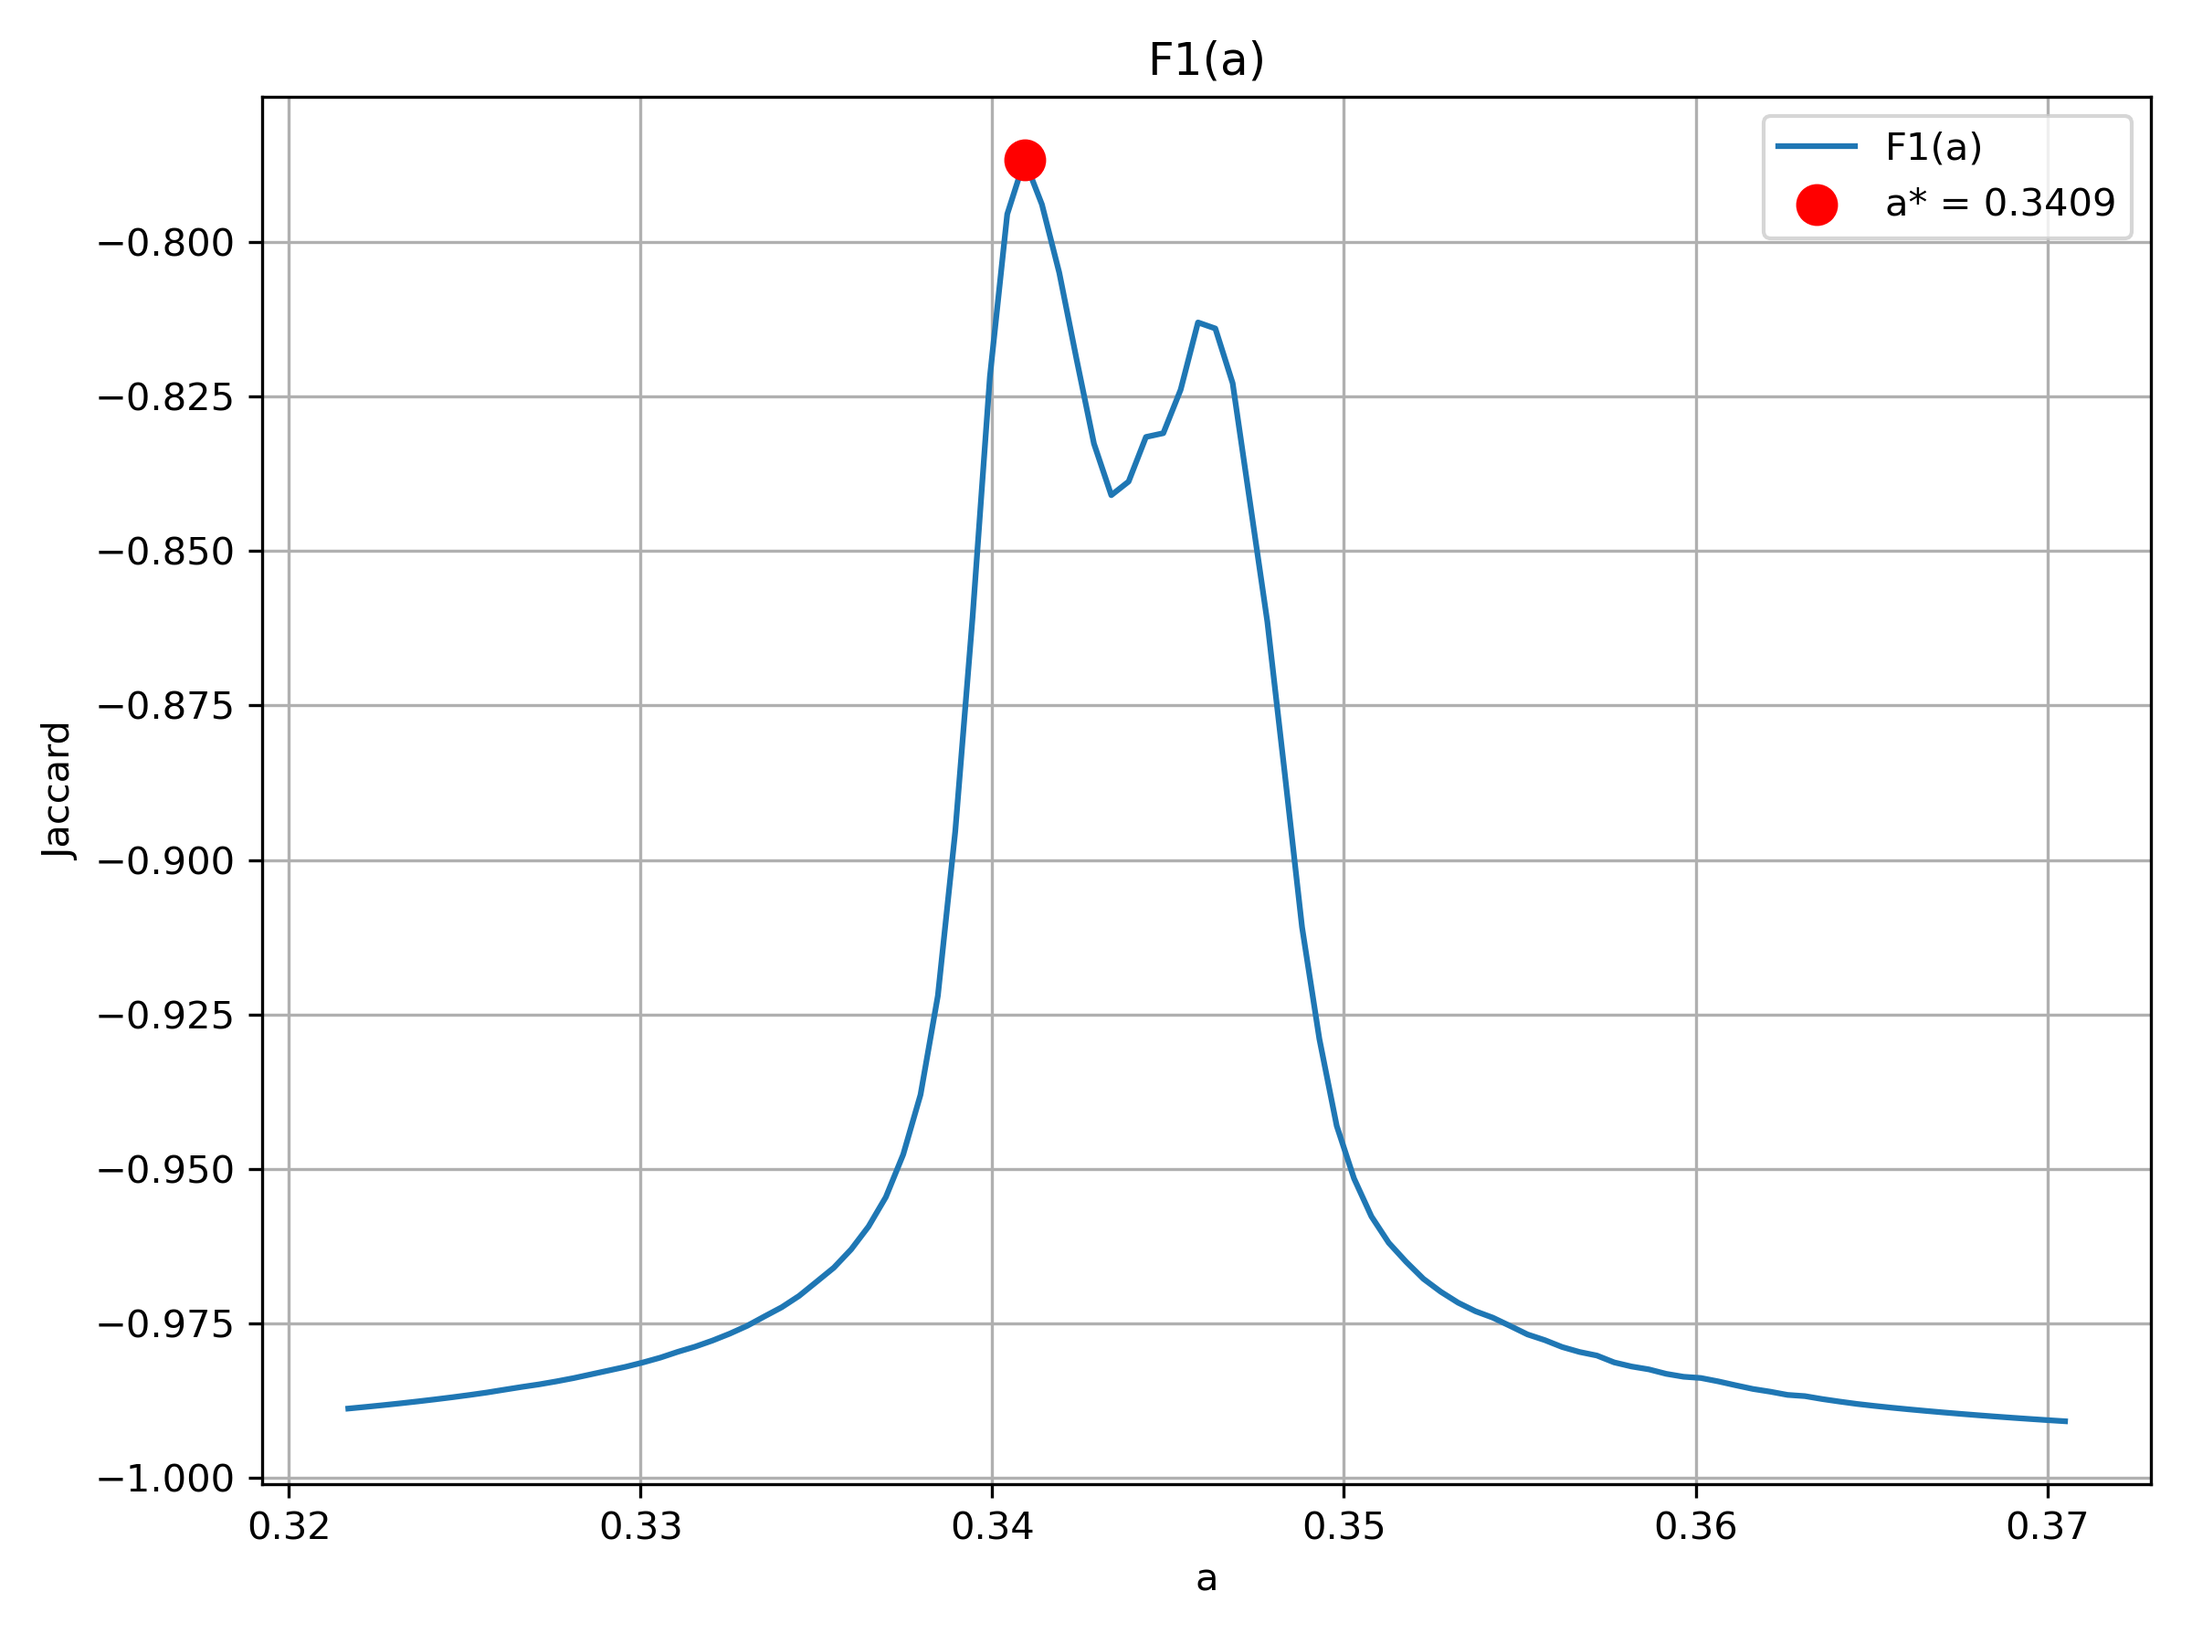
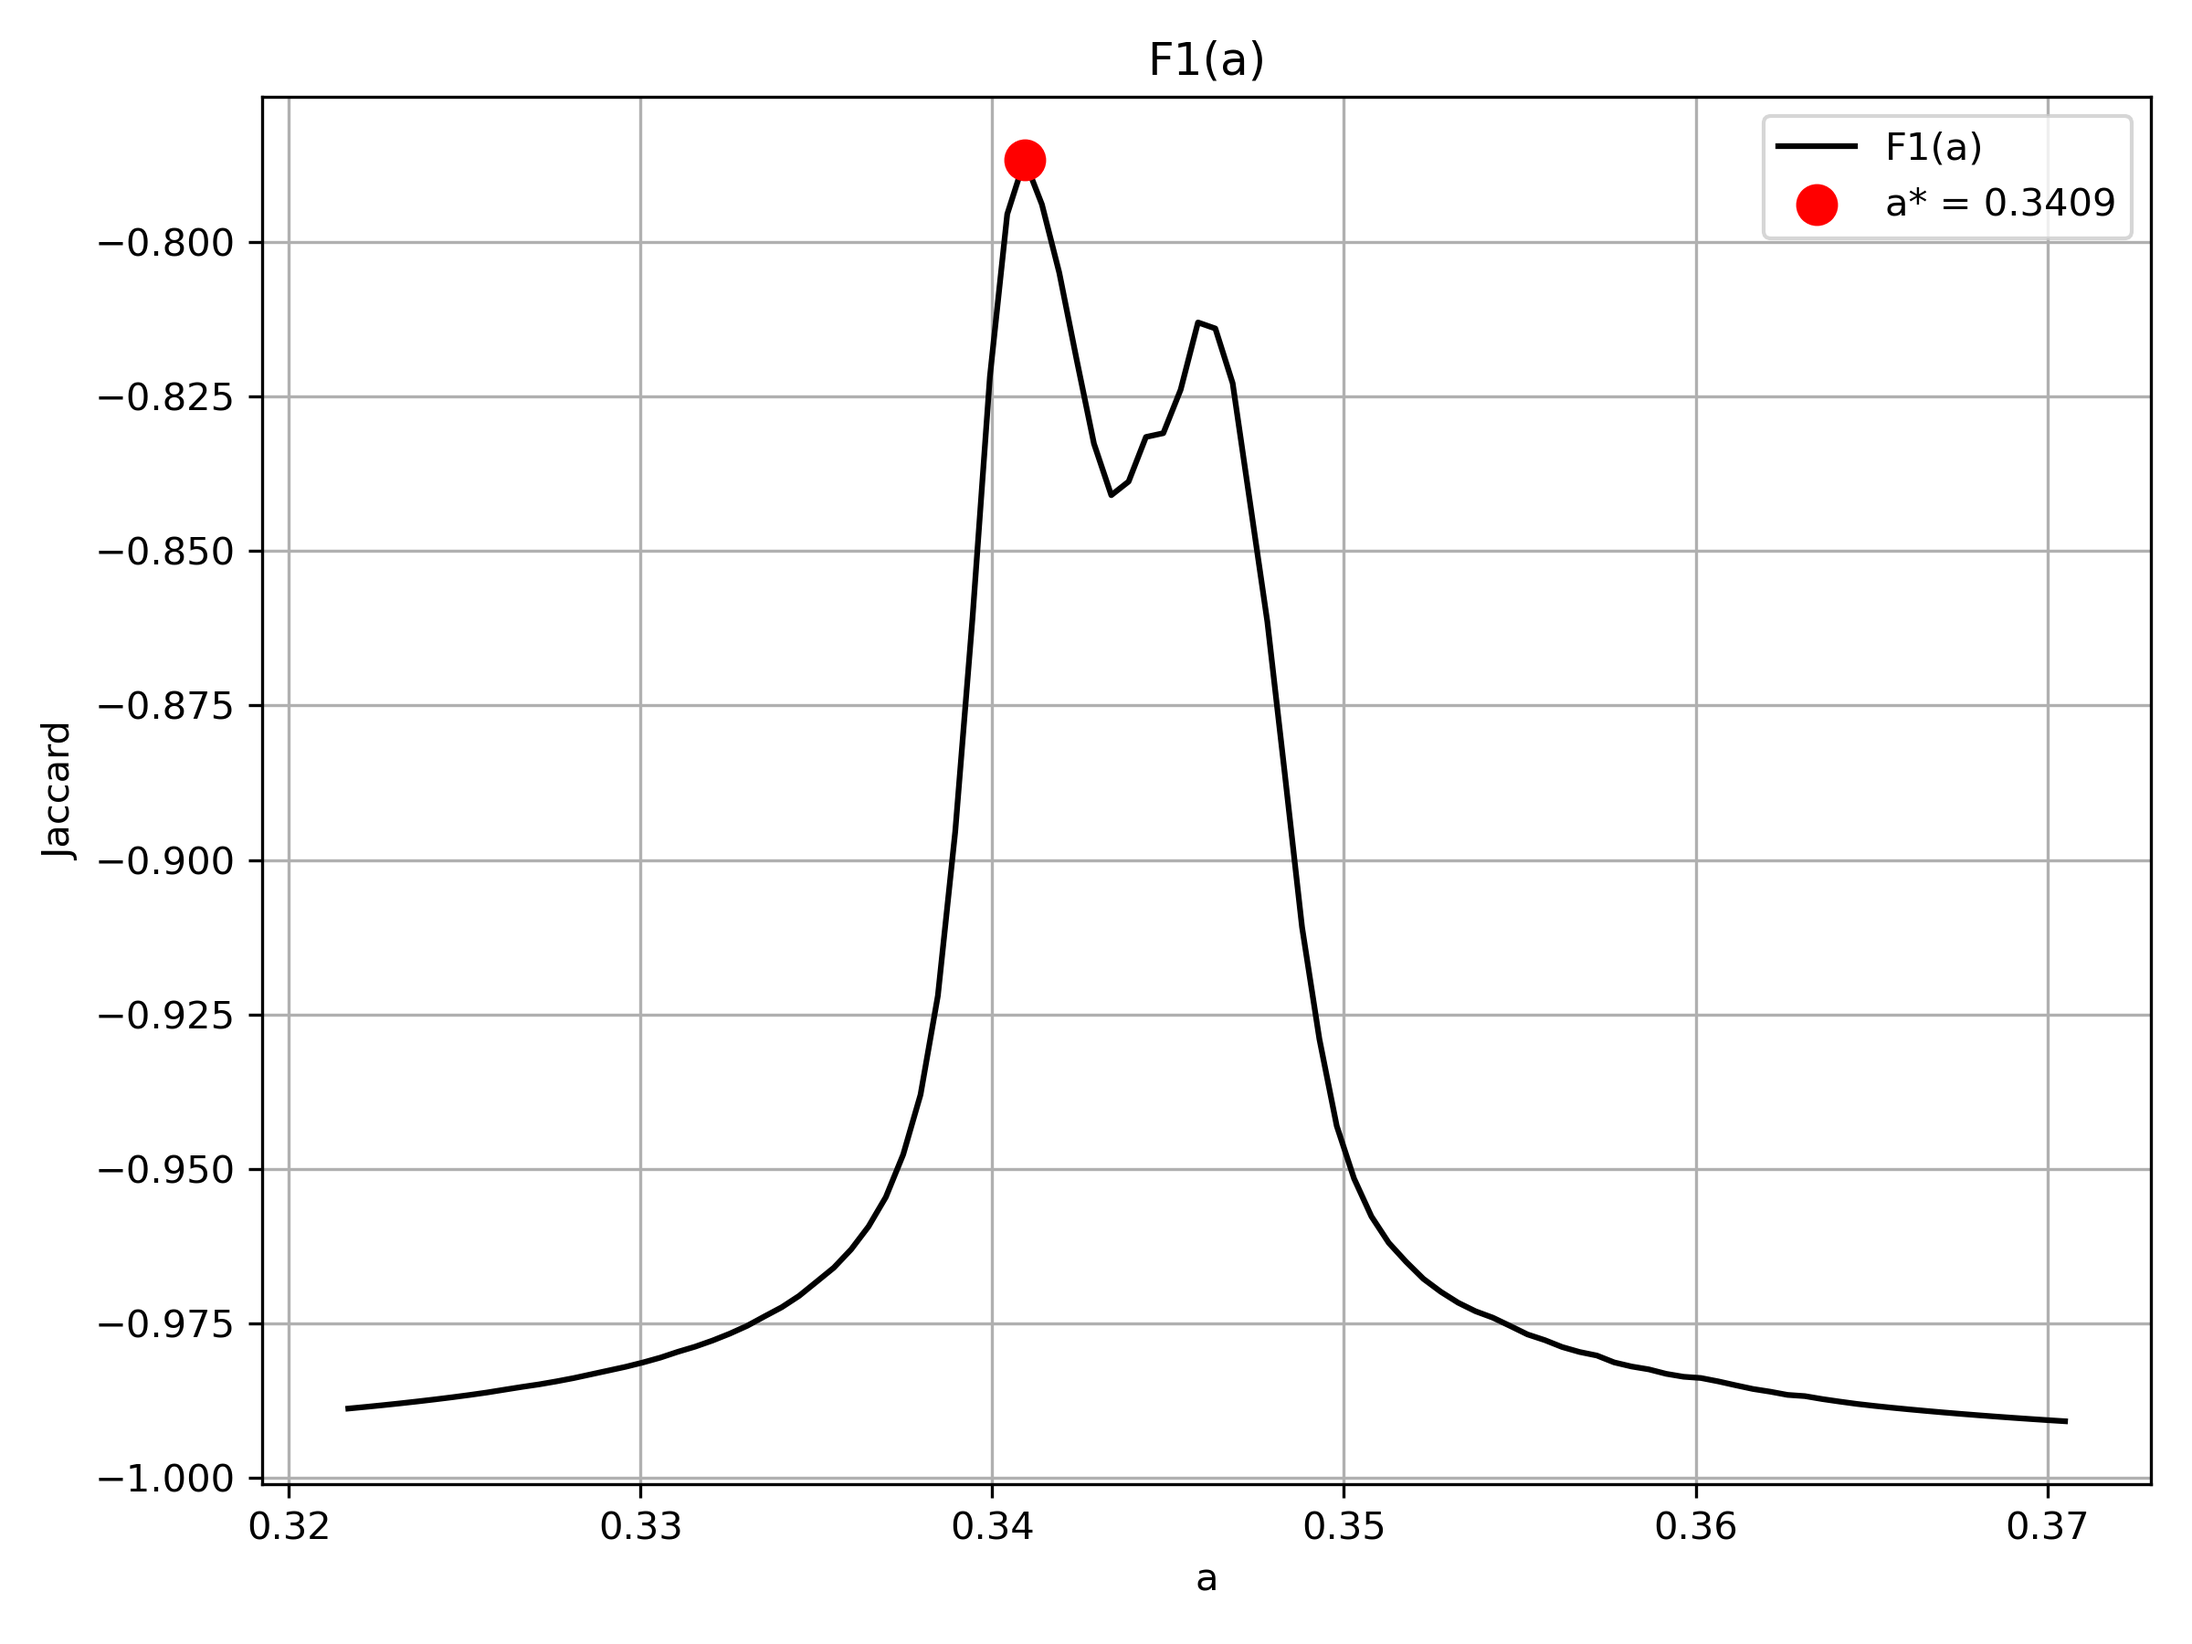
gotovo raz

diff --git a/Lab1/plot.py b/Lab1/plot.py
@@ -32,7 +32,7 @@ def plot(name, func_a, func_t, X, Y,
 
     # --- Первый график: F(a) ---
     plt.figure(figsize=(8, 6))
-    plt.plot(a_values, Ji_a, label=f"{name}(a)")
+    plt.plot(a_values, Ji_a, label=f"{name}(a)", color="black")
     plt.scatter(a_opt, val_a, color='red', s=100, zorder=5, label=f"a* = {a_opt:.4f}")
     plt.title(f"{name}(a)")
     plt.xlabel("a")
@@ -45,7 +45,7 @@ def plot(name, func_a, func_t, X, Y,
 
     # --- Второй график: F(t) ---
     plt.figure(figsize=(8, 6))
-    plt.plot(t_values, Ji_t, label=f"{name}(t)")
+    plt.plot(t_values, Ji_t, label=f"{name}(t)", color="blue")
     plt.scatter(t_opt, val_t, color='red', s=100, zorder=5, label=f"t* = {t_opt:.4f}")
     plt.title(f"{name}(t)")
     plt.xlabel("t")

diff --git a/Lab1/interval_moda.cpp b/Lab1/interval_moda.cpp
@@ -32,7 +32,7 @@ extern "C" {
         return result;
     }
 
-    // Функция, которая возвращает указатель на выделенную память
+
     DLL_EXPORT IntervalArray* interval_moda_cpp(
         const double* a_arr,
         const double* b_arr,

diff --git a/Lab1/interval_mode.py b/Lab1/interval_mode.py
@@ -62,7 +62,6 @@ except Exception as e:
 
 
 def interval_mode(intervals):
-    # === Приведение к списку, если пришёл np.ndarray ===
     if isinstance(intervals, np.ndarray):
         intervals = intervals.tolist()
     if not intervals:
